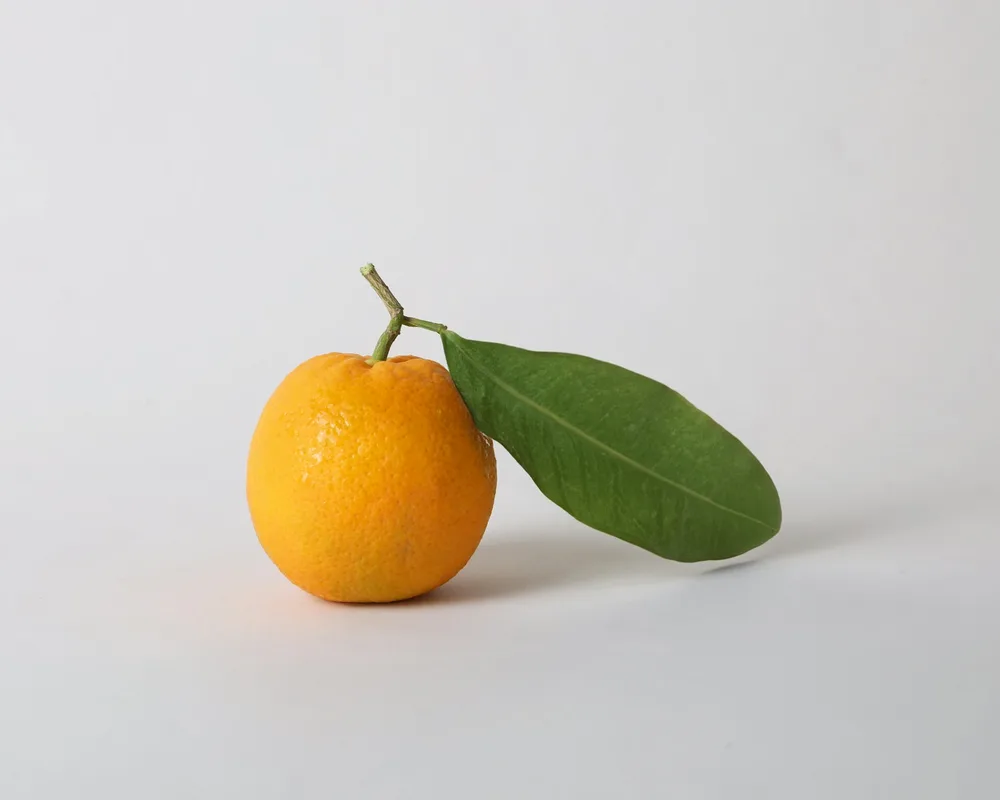
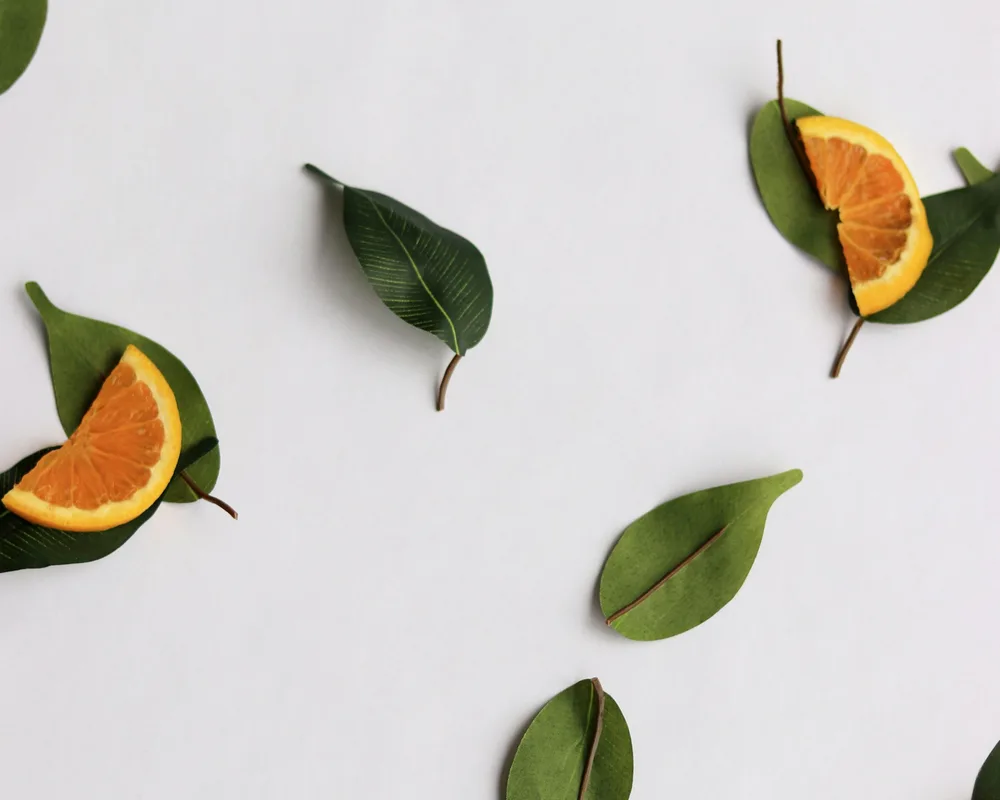
Use flat-lay photography with scattered leaves, and the supplied kiwi
The first replacement set was plain fruit on white. The originals were
flat-lays: fruit with individual green leaves scattered around it, shot
top-down on white. This set matches that composition.

- Private Consultations: halved oranges with scattered citrus leaves
- Corporate Wellness: pink grapefruit and citrus slices with herbs
- Nutrition Talks: halved avocados with green leaves
- Rates modal: lemon halves with a herb sprig
- Corporate modal: orange slices with scattered leaves
- Medical Conditions: the kiwi image supplied by the client

All five Unsplash files are recorded in docs/image-credits.md. The kiwi is
listed separately as client-supplied with its licence unverified, so it can
be checked before production.

The iStock lime composition was rejected. The copy on hand had its watermark
removed, which makes it an infringing copy, and shipping it would recreate
the exact asset-provenance problem this rebuild is meant to close out.

diff --git a/src/components/Services.tsx b/src/components/Services.tsx
@@ -1,10 +1,10 @@
 import { useState } from "react";
 import ServiceModal from "./ServiceModal";
 import citrus from "../assets/images/pippa-manicom-citrus-private-consultations.webp";
-import strawberries from "../assets/images/pippa-manicom-strawberries-corporate-wellness.webp";
-import pear from "../assets/images/pippa-manicom-pear-nutrition-talks.webp";
+import grapefruit from "../assets/images/pippa-manicom-grapefruit-corporate-wellness.webp";
+import avocado from "../assets/images/pippa-manicom-avocado-nutrition-talks.webp";
 import lemons from "../assets/images/pippa-manicom-lemons-consultation-rates.webp";
-import limes from "../assets/images/pippa-manicom-limes-corporate-wellness.webp";
+import oranges from "../assets/images/pippa-manicom-oranges-corporate-wellness.webp";
 
 type Service = {
   image: string;
@@ -21,7 +21,7 @@ type Service = {
 const SERVICES: Service[] = [
   {
     image: citrus,
-    alt: "Fresh orange with a leaf - private dietitian consultations in Constantia, Cape Town",
+    alt: "Halved oranges and fresh citrus leaves - private dietitian consultations in Constantia, Cape Town",
     title: "Private Consultations",
     desc: "My personalised approach takes into account your unique lifestyle, preferences, and challenges, ensuring that we create a path to wellness that works for you, can be done in person or online.",
     modal: "private",
@@ -31,8 +31,8 @@ const SERVICES: Service[] = [
     ctaClass: "bg-pink text-white hover:bg-pink-dark",
   },
   {
-    image: strawberries,
-    alt: "Fresh strawberries - corporate wellness nutrition programmes in Cape Town",
+    image: grapefruit,
+    alt: "Pink grapefruit and citrus slices with herbs - corporate wellness nutrition programmes in Cape Town",
     title: "Corporate Wellness",
     desc: "With over 20 years of experience in working with corporates, I understand the challenges of keeping a work-life balance. I can help increase productivity in a healthier, happier working environment.",
     modal: "corporate",
@@ -42,8 +42,8 @@ const SERVICES: Service[] = [
     ctaClass: "bg-green text-white hover:bg-green-bright",
   },
   {
-    image: pear,
-    alt: "Fresh green pear - nutrition talks and presentations for Cape Town schools and businesses",
+    image: avocado,
+    alt: "Halved avocados with green leaves - nutrition talks and presentations for Cape Town schools and businesses",
     title: "Nutrition Talks",
     desc: "Talks and presentations are available for all age groups - from primary and high school students to university students and older adults - on topics related to healthy, balanced eating.",
     cta: "Book a Talk",
@@ -191,7 +191,7 @@ export default function Services() {
         open={modal === "corporate"}
         onClose={() => setModal(null)}
         title="What I Offer:"
-        image={limes}
+        image={oranges}
       >
         <ul className="list-disc space-y-2 pl-5">
           <li>One-on-one consultations in the office environment</li>

diff --git a/docs/image-credits.md b/docs/image-credits.md
@@ -1,26 +1,37 @@
 # Image credits and licensing
 
-All stock photography on this site is sourced from Unsplash and used under the
-[Unsplash License](https://unsplash.com/license), which grants a free,
-irrevocable, worldwide copyright licence to use the photos for commercial and
-non-commercial purposes without attribution. Credit is recorded here anyway so
-the provenance of every asset is traceable.
+## Unsplash photography
 
-Photographs of Pippa Manicom herself, and the Pippa Manicom logo, are the
-client's own material and are not covered by the licence above.
+These files come from Unsplash and are used under the
+[Unsplash License](https://unsplash.com/license): a free, irrevocable,
+worldwide licence covering commercial use, with no attribution required.
+Credit is recorded here anyway so every asset's provenance is traceable.
 
 | File | Used in | Source | Unsplash ID |
 | --- | --- | --- | --- |
-| `src/assets/images/pippa-manicom-citrus-private-consultations.webp` | Services — Private Consultations card | [Unsplash](https://unsplash.com/photos/LX-POXOATww) | `LX-POXOATww` |
-| `src/assets/images/pippa-manicom-strawberries-corporate-wellness.webp` | Services — Corporate Wellness card | [Unsplash](https://unsplash.com/photos/_ohmByKiYsQ) | `_ohmByKiYsQ` |
-| `src/assets/images/pippa-manicom-pear-nutrition-talks.webp` | Services — Nutrition Talks card | [Unsplash](https://unsplash.com/photos/qCQSeurFgow) | `qCQSeurFgow` |
-| `src/assets/images/pippa-manicom-kiwi-fruit.webp` | Medical Conditions & Lifestyle Needs section | [Unsplash](https://unsplash.com/photos/GAMExm6pQI0) | `GAMExm6pQI0` |
-| `src/assets/images/pippa-manicom-lemons-consultation-rates.webp` | Private consultation rates modal | [Unsplash](https://unsplash.com/photos/FTzoxLX593g) | `FTzoxLX593g` |
-| `src/assets/images/pippa-manicom-limes-corporate-wellness.webp` | Corporate wellness details modal | [Unsplash](https://unsplash.com/photos/SAjdItNzNV0) | `SAjdItNzNV0` |
+| `src/assets/images/pippa-manicom-citrus-private-consultations.webp` | Services — Private Consultations card | [Unsplash](https://unsplash.com/photos/U1pdTX42sXc) | `U1pdTX42sXc` |
+| `src/assets/images/pippa-manicom-grapefruit-corporate-wellness.webp` | Services — Corporate Wellness card | [Unsplash](https://unsplash.com/photos/O8jFliG2rCI) | `O8jFliG2rCI` |
+| `src/assets/images/pippa-manicom-avocado-nutrition-talks.webp` | Services — Nutrition Talks card | [Unsplash](https://unsplash.com/photos/_i9YqqWQFng) | `_i9YqqWQFng` |
+| `src/assets/images/pippa-manicom-lemons-consultation-rates.webp` | Private consultation rates modal | [Unsplash](https://unsplash.com/photos/Sx5lcSvc2ic) | `Sx5lcSvc2ic` |
+| `src/assets/images/pippa-manicom-oranges-corporate-wellness.webp` | Corporate wellness details modal | [Unsplash](https://unsplash.com/photos/U-dcv6xWW5c) | `U-dcv6xWW5c` |
+
+## Client-supplied images
+
+| File | Used in | Source |
+| --- | --- | --- |
+| `src/assets/images/pippa-manicom-kiwi-fruit.webp` | Medical Conditions & Lifestyle Needs | Supplied by the client (Kaizen Technology, 3 September 2026). Licence not verified by us — confirm the source holds a commercial licence before this goes to production. |
+| `src/assets/images/Pippa-Manicom*.webp`, `Pippa-at-work-desk.webp`, `Pippa_Manicom_logo.png` | Hero, About, Work Experience, Contact, Header, Footer | The client's own photography and brand mark. |
 
 ## Icons
 
-Interface and condition icons come from two MIT-licensed icon packs installed
-as dependencies: [Lucide](https://lucide.dev) (`lucide-react`) and
-[Tabler Icons](https://tabler.io/icons) (`@tabler/icons-react`). No icon
-artwork on this site is traced or copied from a third-party site.
+Interface and condition icons come from two MIT-licensed packs installed as
+dependencies: [Lucide](https://lucide.dev) (`lucide-react`) and
+[Tabler Icons](https://tabler.io/icons) (`@tabler/icons-react`). No icon on
+this site is traced or copied from a third party.
+
+## Not used
+
+`istockphoto-1400024676` and its watermark-stripped derivative were considered
+and rejected. iStock imagery needs a purchased licence; a watermark-removed
+copy is an infringing copy, which is precisely the exposure this rebuild
+exists to eliminate.
